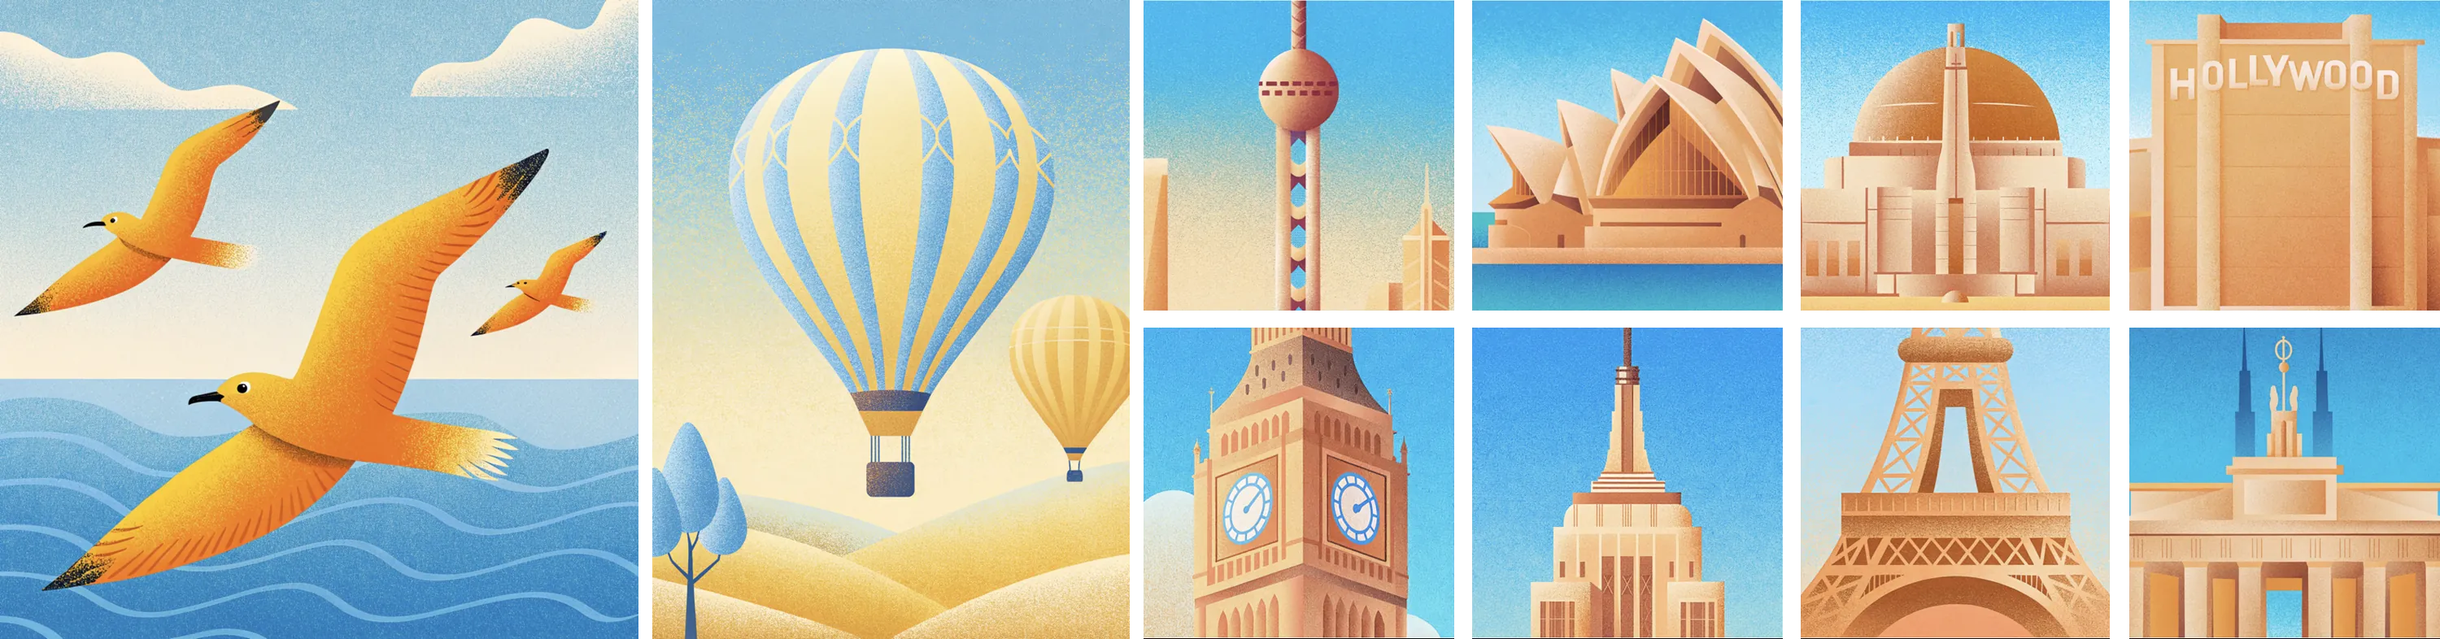
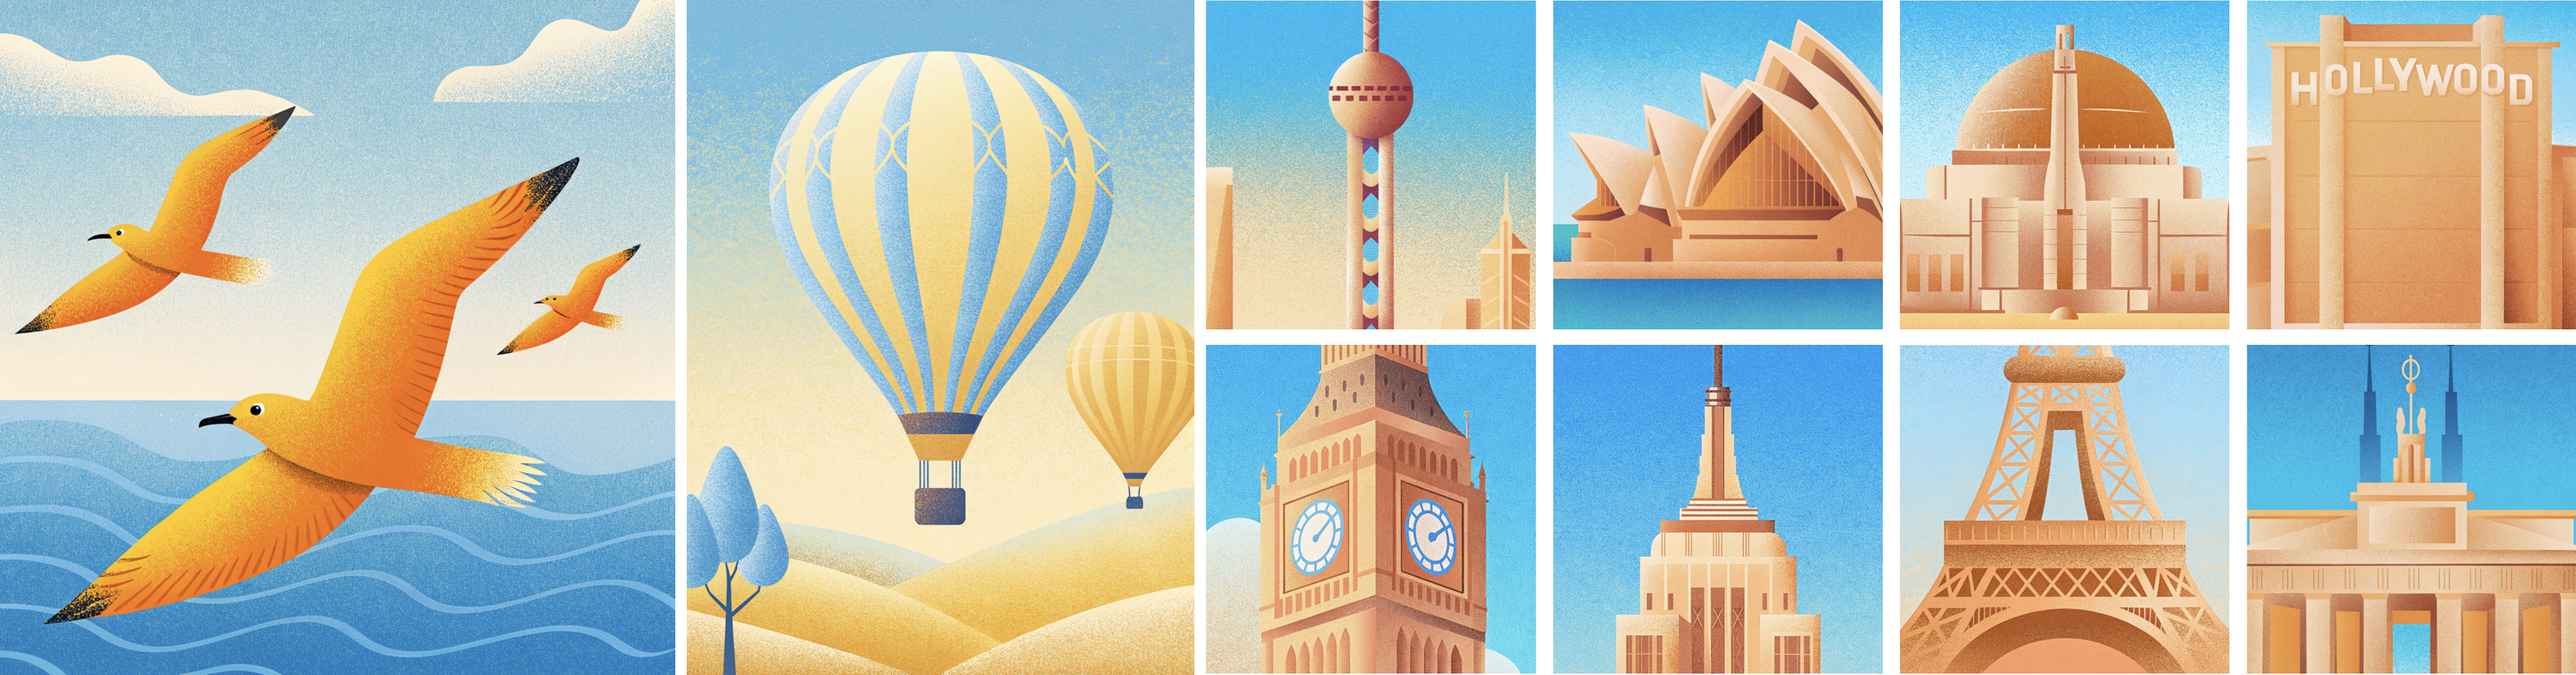
Replace animation system artwork with supplied image

Changed region(s): [[0.837, 0.458, 0.868, 0.4885], [0.341, 0.7023, 0.372, 0.7328], [0.031, 0.8855, 0.062, 0.916]]

diff --git a/animation-video/index.html b/animation-video/index.html
@@ -16,7 +16,7 @@
 <section class="p-hero" id="top"><video class="p-hero-media" autoplay muted loop playsinline preload="metadata" poster="media/hero-poster.jpg" aria-hidden="true"><source src="media/hero.mp4" type="video/mp4"></video><div class="p-hero-shade"></div><div class="p-hero-title"><h1>Animation Video</h1><p>AIGC</p></div></section>
 <section class="p-statement"><div class="p-statement-inner"><h2>Control,<br>not chance.</h2><p>A 2025 social media opening animation for NYU Shanghai — a controlled AI illustration system, set in motion.</p></div></section>
 <section class="p-facts"><div><strong>NYU Shanghai</strong><span>Client</span></div><div><strong>Recraft</strong><span>Image generation</span></div><div><strong>After Effects</strong><span>Motion and compositing</span></div><div><strong>2025</strong><span>Social media opening</span></div></section>
-<div class="p-frame is-wide"><figure><img src="media/system.webp?v=20261019-4" alt="The generated illustration system: birds, balloons and world landmarks" loading="lazy"></figure></div>
+<div class="p-frame is-wide"><figure><img src="media/system.webp?v=20261019-5" alt="The generated illustration system: birds, balloons and world landmarks" loading="lazy"></figure></div>
 <section class="p-text"><h2>One world,<br>many scenes.</h2><div class="p-copy is-single"><p>Palette, texture, composition and subject scale were fixed before generation, so the same visual grammar holds across landmarks, landscapes, travel imagery and atmospheric transitions.</p></div></section>
 <div class="p-grid is-three is-square"><figure><img src="media/birds.webp" alt="Birds over the sea" loading="lazy"></figure><figure><img src="media/balloon.webp" alt="Hot-air balloons over dunes" loading="lazy"></figure><figure><img src="media/clouds.webp" alt="Clouds over sand" loading="lazy"></figure></div>
 <section class="p-flow"><ol><li><strong>Define</strong><p>Set the visual grammar: palette, grain, light and scale.</p></li><li><strong>Reference</strong><p>Build a reference system that keeps every generation on-model.</p></li><li><strong>Test</strong><p>Check consistency across subjects before committing to a scene.</p></li><li><strong>Refine</strong><p>Correct and assemble the images by hand.</p></li><li><strong>Sequence</strong><p>Pace the scenes, transitions and typography for motion.</p></li><li><strong>Deliver</strong><p>Output across horizontal and vertical social formats.</p></li></ol></section>
